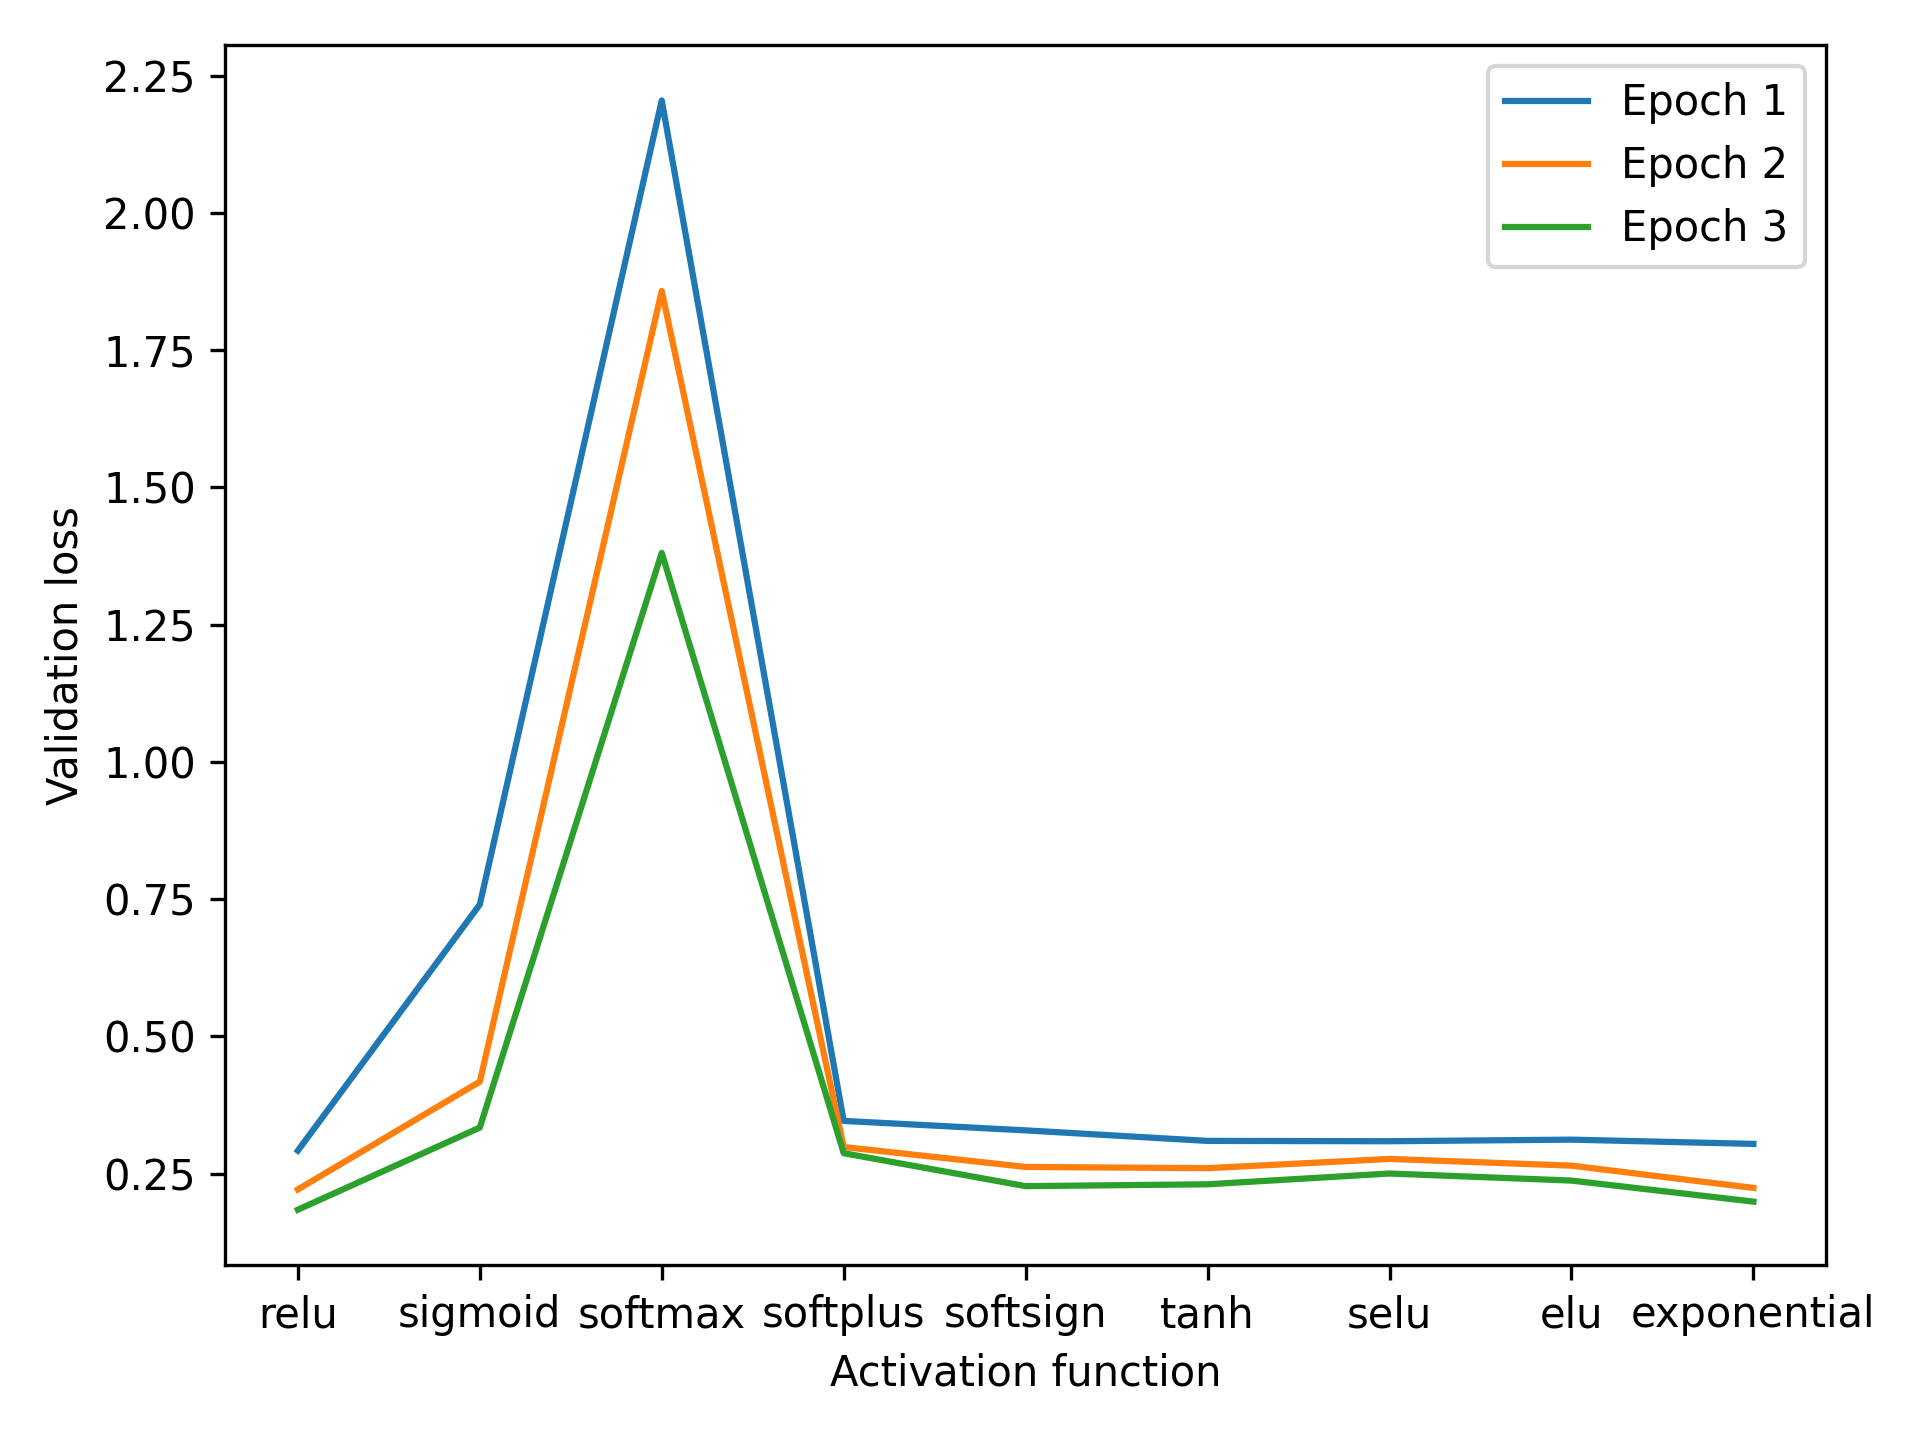
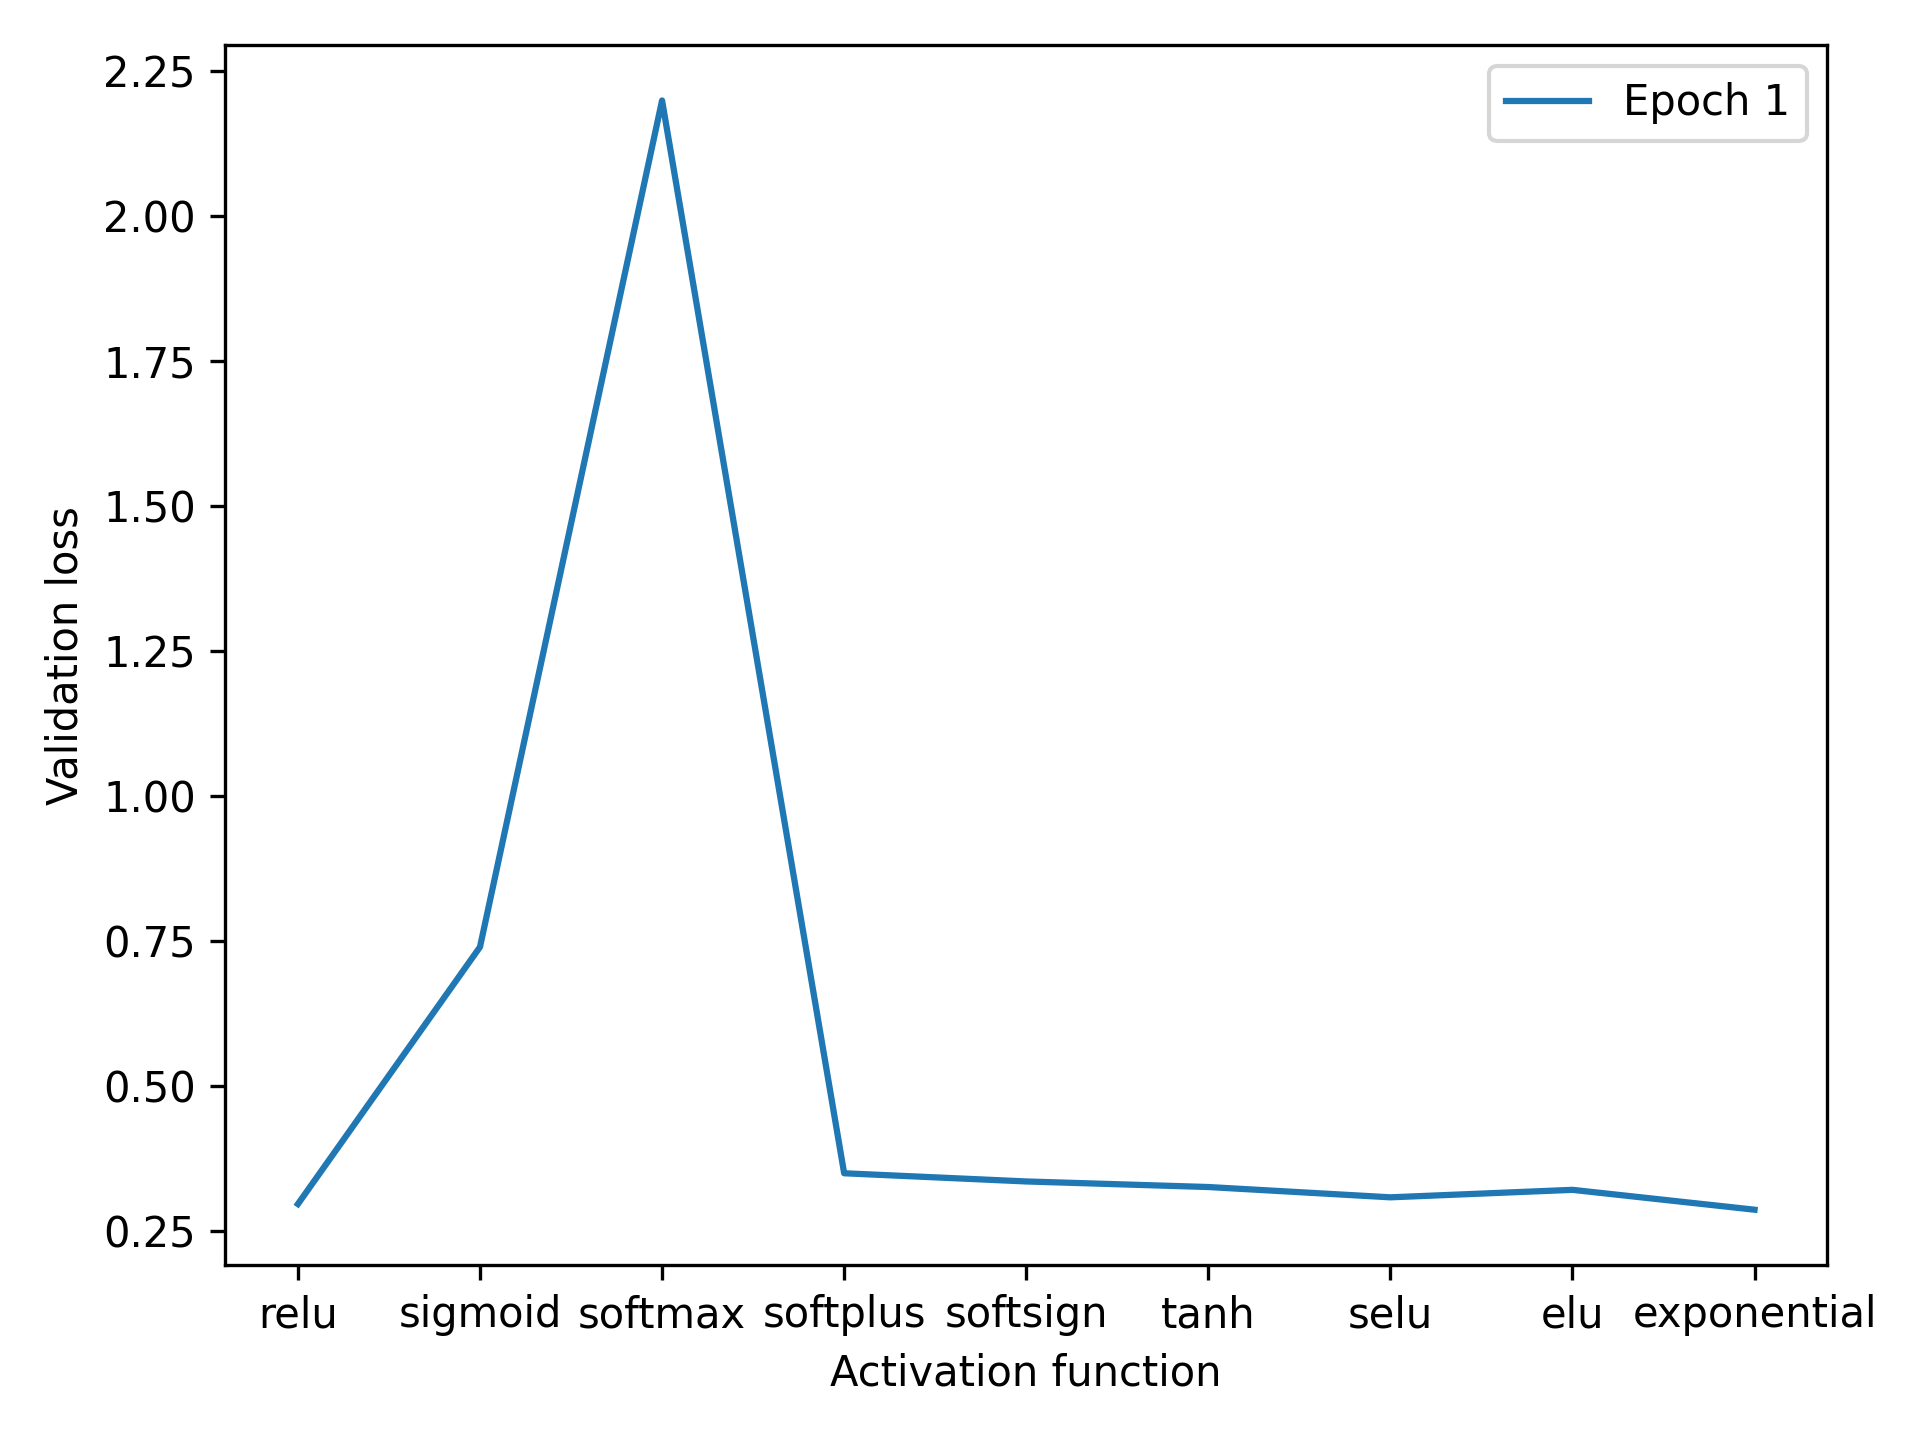
Reorganizing existing code

diff --git a/src/main.py b/src/main.py
@@ -1,129 +1,18 @@
-import os
-import matplotlib.pyplot as plt
 import pandas as pd
-
+import matplotlib.pyplot as plt
+import os
 os.environ["TF_CPP_MIN_LOG_LEVEL"] = "3"  # or any {'0', '1', '2'}
 
-from network import TrainData, TestNet
-from data import read_config, create_hp_list, get_samples
-
-
-# Activation functions in keras: relu, sigmoid, softmax, softplus, softsign, tanh, selu, elu, exponential
-activation_functions = [
-    "relu",
-    "sigmoid",
-    "softmax",
-    "softplus",
-    "softsign",
-    "tanh",
-    "selu",
-    "elu",
-    "exponential",
-]
-
-
-def is_activation_function(afun: str) -> bool:
-    return afun in activation_functions
-
-
-def test_params(lrate: float, bsize: int, afun: str, train_data: TrainData) -> tuple:
-    if not is_activation_function(afun):
-        raise ValueError("Invalid activation function")
-    network = TestNet(lrate, bsize, afun)
-    validation_loss = network.train(train_data)
-    return validation_loss
-
-def fanova(results: list):
-    # This function applies the fANOVA algorithm to the results of a single hyperparameter and returns the importance score
-    val_losses = []
-    for result in results:
-        val_losses.append(sum(result[3]) / len(result[3])) # Average validation loss over all runs
-
-    variance = sum([(val_loss - sum(val_losses) / len(val_losses))**2 for val_loss in val_losses]) / len(val_losses)
-    return variance
-
-def plot_val_loss(hp_results: list, hyperparameter: str):
-    # This function plots the validation loss over the epochs for each hyperparameter
-    # As input it expects a list with hp_value - val_loss pairs
-    # val_loss is a list of validation losses for each epoch
-    hp_values = [hp_result[0] for hp_result in hp_results]
-    first_epoch = [hp_result[1][0] for hp_result in hp_results]
-    second_epoch = [hp_result[1][1] for hp_result in hp_results]
-    third_epoch = [hp_result[1][2] for hp_result in hp_results]
-    
-    # Make sure plot is reset
-    plt.clf()
-    plt.plot(hp_values, first_epoch, label="Epoch 1")
-    plt.plot(hp_values, second_epoch, label="Epoch 2")
-    plt.plot(hp_values, third_epoch, label="Epoch 3")
-    plt.xlabel(hyperparameter)
-    plt.ylabel("Validation loss")
-    plt.legend()
-    plt.tight_layout()
-    plt.savefig("./plots/" + hyperparameter.replace(" ", "_") + ".png", dpi=300)
-
-def analyze_results(hyperparameters: list, results: list):
-    # This function analyzes the importance of the hyperparameters
-    lrate_importance = fanova(results[0])
-    bsize_importance = fanova(results[1])
-    afun_importance =  fanova(results[2])
-
-    print("Learning rate importance score: " + str(lrate_importance))
-    print("Batch size importance score: " + str(bsize_importance))
-    print("Activation function importance score: " + str(afun_importance))
+# Import from src
+from analysis import analysis
+from paramiterator import ParamIterator
 
 
 def main():
-    config = read_config("configs/default.json")
-    hyperparameters = create_hp_list(config)
-    train_data = TrainData()
+    param_iter = ParamIterator()
+    results = param_iter.iterate()
+    analysis(results, param_iter.hyperparameters)
 
-    default_lrate = hyperparameters[0][len(hyperparameters[0]) // 2]
-    default_bsize = hyperparameters[1][len(hyperparameters[1]) // 2]
-    default_afun = hyperparameters[2][len(hyperparameters[2]) // 2]
-
-    # Iterate over all hyperparameters
-    results = []
-    for i, hyperparameter in enumerate(hyperparameters):
-        hp_results = []
-        for value in hyperparameter:
-            if i == 0: # learning rate
-                lrate = value
-                bsize = int(default_bsize)
-                afun = default_afun
-            elif i == 1: # batch size
-                lrate = default_lrate
-                bsize = int(value)
-                afun = default_afun
-            elif i == 2: # activation function
-                lrate = default_lrate
-                bsize = int(default_bsize)
-                afun = value
-            else:
-                raise ValueError("Invalid hyperparameter index")
-        
-            validation_loss = test_params(lrate, bsize, afun, train_data)
-            hp_results.append([lrate, bsize, afun, validation_loss])
-        results.append(hp_results)
-    
-    analyze_results(hyperparameters, results)
-    # Plot lrate
-    lrate_results = []
-    for result in results[0]:
-        lrate_results.append((result[0], result[3]))
-    plot_val_loss(lrate_results, "Learning rate")
-
-    # Plot bsize
-    bsize_results = []
-    for result in results[1]:
-        bsize_results.append((result[1], result[3]))
-    plot_val_loss(bsize_results, "Batch size")
-
-    # Plot afun
-    afun_results = []
-    for result in results[2]:
-        afun_results.append((result[2], result[3]))
-    plot_val_loss(afun_results, "Activation function")
 
 if __name__ == "__main__":
     main()

diff --git a/src/analysis.py b/src/analysis.py
@@ -1,0 +1,66 @@
+import matplotlib.pyplot as plt
+
+
+def fanova(results: list):
+    # This function applies the fANOVA algorithm to the results of a single hyperparameter and returns the importance score
+    val_losses = []
+    for result in results:
+        # Average validation loss over all runs
+        val_losses.append(sum(result[3]) / len(result[3]))
+
+    variance = sum([(val_loss - sum(val_losses) / len(val_losses))
+                   ** 2 for val_loss in val_losses]) / len(val_losses)
+    return variance
+
+
+# TODO(Jannis): Epochs as parameter here are inelegant
+def plot_val_loss(hp_results: list, hyperparameter: str, num_epochs: int = 1):
+    # This function plots the validation loss over the epochs for each hyperparameter
+    # As input it expects a list with hp_value - val_loss pairs
+    # val_loss is a list of validation losses for each epoch
+    hp_values = [hp_result[0] for hp_result in hp_results]
+    epochs = []
+    for i in range(num_epochs):
+        epochs.append([hp_result[1][i] for hp_result in hp_results])
+
+    # Make sure plot is reset
+    plt.clf()
+    for i, epoch in enumerate(epochs):
+        plt.plot(hp_values, epoch, label="Epoch " + str(i + 1))
+    plt.xlabel(hyperparameter)
+    plt.ylabel("Validation loss")
+    plt.legend()
+    plt.tight_layout()
+    plt.savefig("./plots/" + hyperparameter.replace(" ", "_") + ".png", dpi=300)
+
+
+def analyze_results(hyperparameters: list, results: list):
+    # This function analyzes the importance of the hyperparameters
+    lrate_importance = fanova(results[0])
+    bsize_importance = fanova(results[1])
+    afun_importance = fanova(results[2])
+
+    print("Learning rate importance score: " + str(lrate_importance))
+    print("Batch size importance score: " + str(bsize_importance))
+    print("Activation function importance score: " + str(afun_importance))
+
+
+def analysis(results: list, hyperparameters: list):
+    analyze_results(hyperparameters, results)
+    # Plot lrate
+    lrate_results = []
+    for result in results[0]:
+        lrate_results.append((result[0], result[3]))
+    plot_val_loss(lrate_results, "Learning rate")
+
+    # Plot bsize
+    bsize_results = []
+    for result in results[1]:
+        bsize_results.append((result[1], result[3]))
+    plot_val_loss(bsize_results, "Batch size")
+
+    # Plot afun
+    afun_results = []
+    for result in results[2]:
+        afun_results.append((result[2], result[3]))
+    plot_val_loss(afun_results, "Activation function")

diff --git a/src/paramiterator.py b/src/paramiterator.py
@@ -1,0 +1,73 @@
+
+from data import read_config, create_hp_list
+from network import TrainData, TestNet
+
+# Activation functions in keras: relu, sigmoid, softmax, softplus, softsign, tanh, selu, elu, exponential
+activation_functions = [
+    "relu",
+    "sigmoid",
+    "softmax",
+    "softplus",
+    "softsign",
+    "tanh",
+    "selu",
+    "elu",
+    "exponential",
+]
+
+
+def is_activation_function(afun: str) -> bool:
+    return afun in activation_functions
+
+
+def test_params(lrate: float, bsize: int, afun: str, train_data: TrainData) -> tuple:
+    if not is_activation_function(afun):
+        raise ValueError("Invalid activation function")
+    network = TestNet(lrate, bsize, afun)
+    validation_loss = network.train(train_data)
+    return validation_loss
+
+
+class ParamIterator():
+    # param_list = []
+    # default_params = []
+
+    def __init__(self, config_path: str = "configs/default.json"):
+        self.config = read_config(config_path)
+        self.hyperparameters = create_hp_list(self.config)
+        self.train_data = TrainData()
+
+        self.default_lrate = self.hyperparameters[0][len(
+            self.hyperparameters[0]) // 2]
+        self.default_bsize = self.hyperparameters[1][len(
+            self.hyperparameters[1]) // 2]
+        self.default_afun = self.hyperparameters[2][len(
+            self.hyperparameters[2]) // 2]
+
+    # Iterate over all hyperparameters
+    def iterate(self):
+        results = []
+        for i, hyperparameter in enumerate(self.hyperparameters):
+            hp_results = []
+            for value in hyperparameter:
+                if i == 0:  # learning rate
+                    lrate = value
+                    bsize = int(self.default_bsize)
+                    afun = self.default_afun
+                elif i == 1:  # batch size
+                    lrate = self.default_lrate
+                    bsize = int(value)
+                    afun = self.default_afun
+                elif i == 2:  # activation function
+                    lrate = self.default_lrate
+                    bsize = int(self.default_bsize)
+                    afun = value
+                else:
+                    raise ValueError("Invalid hyperparameter index")
+
+                validation_loss = test_params(
+                    lrate, bsize, afun, self.train_data)
+                hp_results.append([lrate, bsize, afun, validation_loss])
+            results.append(hp_results)
+
+        return results

diff --git a/src/network.py b/src/network.py
@@ -27,7 +27,6 @@ class TrainData:
         )
 
 
-
 class TestNet:
     model: keras.Sequential
 
@@ -43,8 +42,10 @@ class TestNet:
         self.model = keras.models.Sequential()
 
         self.model.add(keras.layers.Flatten())
-        self.model.add(keras.layers.Dense(64, activation=self.activation_function))
-        self.model.add(keras.layers.Dense(64, activation=self.activation_function))
+        self.model.add(keras.layers.Dense(
+            64, activation=self.activation_function))
+        self.model.add(keras.layers.Dense(
+            64, activation=self.activation_function))
         self.model.add(keras.layers.Dense(10, activation=tf.nn.softmax))
 
         optimizer = keras.optimizers.Adam(learning_rate=self.learning_rate)
@@ -57,11 +58,11 @@ class TestNet:
     # Train function uses given learning_rate and batch_size
     def train(self, train_data: TrainData):
         history = self.model.fit(
-            train_data.x_train, train_data.y_train, epochs=3, batch_size=self.batch_size, validation_data=(train_data.x_val, train_data.y_val)
+            train_data.x_train, train_data.y_train, epochs=1, batch_size=self.batch_size, validation_data=(train_data.x_val, train_data.y_val)
         )
         _, _ = self.model.evaluate(train_data.x_test, train_data.y_test)
-        
+
         # Get validation loss from history object
         validation_loss = history.history['val_loss']
-        
+
         return validation_loss

diff --git a/src/data.py b/src/data.py
@@ -23,15 +23,18 @@ import json
 import pandas as pd
 import itertools
 
+
 def get_samples(start: float, end: float, num_samples: int = 40) -> list:
     # Returns a list of floats from start to end with num_samples number of points
     return [start + i*(end-start)/(num_samples-1) for i in range(num_samples)]
+
 
 def read_config(path: str):
     # Reads a json config file and returns a dict
     with open(path, "r") as f:
         config = json.load(f)
     return config
+
 
 def create_hp_list(config: dict):
     # Creates a list of all hyperparameters stripped of their names

diff --git a/src/paramhandler.py b/src/paramhandler.py
@@ -1,0 +1,25 @@
+
+import enum
+
+
+class ParamType(enum.Enum):
+    """Enum class for parameter types"""
+    STRING = 1
+    INTEGER = 2
+    FLOAT = 3
+    BOOLEAN = 4
+
+
+class Params(enum.Enum):
+    """Enum class for parameter names"""
+    LEARNING_RATE = 1
+    BATCH_SIZE = 2
+    ACTIVATION_FUNCTION = 3
+    Epochs = 4
+
+
+class ParamHandler:
+    # Needs:
+    # - function that returns requested params
+    # -
+    pass
